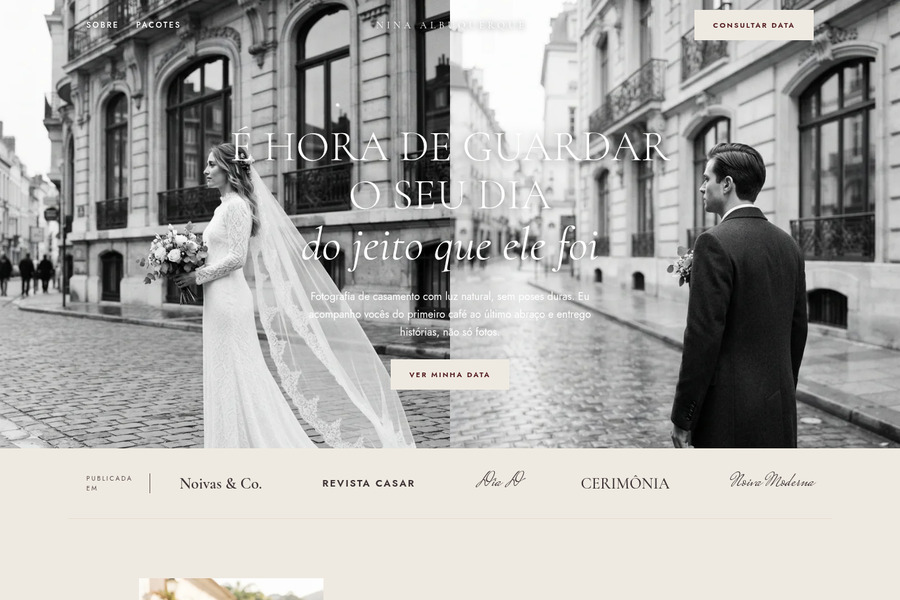
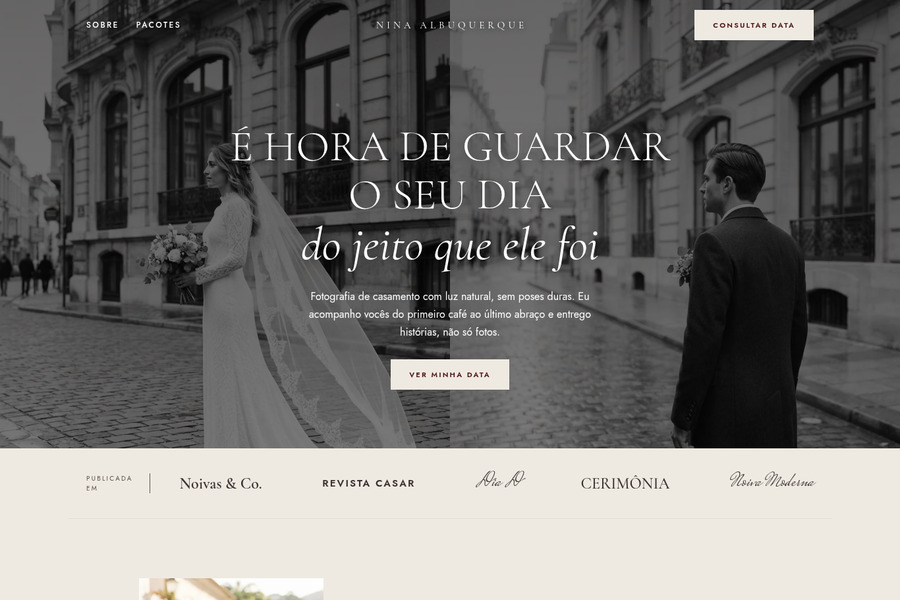
fix(vitrine): overlay escuro no hero do Nina

diff --git a/src/lib/standalone-html/nina-albuquerque.html b/src/lib/standalone-html/nina-albuquerque.html
@@ -14,7 +14,7 @@ Error generating stack: `+u.message+`
         .ft2 .sc{font-family:'Mrs Saint Delafield',cursive}
         .ft2 .hero{position:relative;background:#1a1a1a;color:#fff;min-height:680px;overflow:hidden}
         .ft2 .hero .ph{position:absolute;top:0;bottom:0;width:50%}.ft2 .hero .ph.l{left:0}.ft2 .hero .ph.r{right:0}
-        .ft2 .hero:after{content:"";position:absolute;inset:0;background:linear-gradient(180deg,rgba(10,8,8,.62),rgba(10,8,8,.5))}
+        .ft2 .hero:after{content:"";position:absolute;inset:0;z-index:1;background:linear-gradient(180deg,rgba(10,8,8,.62),rgba(10,8,8,.5))}
         .ft2 .hero>*{position:relative;z-index:2}
         .ft2 .nav{display:grid;grid-template-columns:1fr auto 1fr;align-items:center;height:76px;max-width:1160px;margin:0 auto;padding:0 28px}
         .ft2 .logo{text-shadow:0 1px 10px #000;font-family:'Cormorant Garamond',serif;font-size:15px;letter-spacing:.34em;text-transform:uppercase;font-weight:400;padding-left:.34em;text-align:center}
@@ -78,5 +78,5 @@ Error generating stack: `+u.message+`
           .ft2 .pk{grid-template-columns:1fr}.ft2 .pk button{min-height:260px}
           .ft2 .fm{grid-template-columns:1fr}.ft2 .fm .full{grid-column:span 1}.ft2 .info{grid-template-columns:1fr}
         }
-      `}),(0,E.jsxs)("section",{className:"hero",id:"top",children:[(0,E.jsx)(Tu,{k:1,style:{position:"absolute",top:0,bottom:0,left:0,width:"50%"}}),(0,E.jsx)(Tu,{k:2,style:{position:"absolute",top:0,bottom:0,right:0,width:"50%"}}),(0,E.jsxs)("header",{className:"nav",children:[(0,E.jsxs)("div",{className:"nl",children:[(0,E.jsx)("a",{onClick:()=>yl("sobre"),children:"Sobre"}),(0,E.jsx)("a",{onClick:()=>yl("pacotes"),children:"Pacotes"})]}),(0,E.jsx)("div",{className:"logo",children:H}),(0,E.jsxs)("div",{className:"nr",children:[(0,E.jsx)("a",{className:"btn",onClick:()=>yl("data"),children:"Consultar data"}),(0,E.jsx)("button",{className:"burger",onClick:()=>Q(Y=>!Y),"aria-label":"Menu",children:S?"×":"≡"})]})]}),S&&(0,E.jsxs)("div",{className:"mob",children:[(0,E.jsx)("a",{onClick:()=>yl("sobre"),children:"Sobre"}),(0,E.jsx)("a",{onClick:()=>yl("pacotes"),children:"Pacotes"}),(0,E.jsx)("a",{onClick:()=>yl("data"),children:"Consultar data"})]}),(0,E.jsxs)("h1",{children:["É hora de guardar",(0,E.jsx)("br",{}),"o seu dia ",(0,E.jsx)("em",{children:"do jeito que ele foi"})]}),(0,E.jsx)("p",{className:"s",children:"Fotografia de casamento com luz natural, sem poses duras. Eu acompanho vocês do primeiro café ao último abraço e entrego histórias, não só fotos."}),(0,E.jsx)("div",{className:"ctr",children:(0,E.jsx)("button",{className:"btn",onClick:()=>yl("data"),children:"Ver minha data"})})]}),(0,E.jsxs)("div",{className:"logos",children:[(0,E.jsxs)("small",{children:["Publicada",(0,E.jsx)("br",{}),"em"]}),(0,E.jsx)("div",{children:lm.map(Y=>(0,E.jsx)("span",{className:Y.f==="script"?"sc":"",style:{fontFamily:Y.f==="serif"?"'Cormorant Garamond',serif":Y.f==="sans"?"Jost,sans-serif":void 0,fontWeight:Y.w,letterSpacing:Y.f==="sans"?".14em":0,fontSize:Y.f==="script"?30:Y.f==="sans"?15:24},children:Y.t},Y.t))})]}),(0,E.jsxs)("section",{className:"about",id:"sobre",children:[(0,E.jsxs)("div",{className:"col",children:[(0,E.jsx)(Tu,{k:3,style:{position:"absolute",left:0,top:0,width:280,height:380}}),(0,E.jsx)(Tu,{k:4,style:{position:"absolute",left:230,top:250,width:130,height:170,border:`5px solid ${ie}`,boxShadow:"0 10px 30px rgba(0,0,0,.3)"}})]}),(0,E.jsxs)("div",{children:[(0,E.jsx)("small",{children:"Oi, eu sou a"}),(0,E.jsxs)("div",{className:"sc sig",children:[w," Albuquerque"]}),(0,E.jsx)("p",{children:"Fotografo casamentos há 11 anos, hoje só entre 20 e 25 por temporada, para conseguir estar inteira em cada um."}),(0,E.jsx)("p",{children:"Meu jeito é ficar perto sem aparecer. Quem casa comigo costuma dizer que esqueceu que tinha fotógrafa, e adorou ver o resultado depois."}),(0,E.jsx)("div",{style:{marginTop:22},children:(0,E.jsx)("a",{className:"btn dk",onClick:()=>yl("pacotes"),children:"Conhecer os pacotes"})})]})]}),(0,E.jsxs)("section",{className:"band",children:[(0,E.jsx)("div",{className:"sc note",children:"memórias que ficam"}),(0,E.jsx)(Tu,{k:4,style:{position:"absolute",right:"8%",top:50,width:90,height:116,transform:"rotate(7deg)",border:`3px solid ${St}`}}),(0,E.jsx)(Tu,{k:3,style:{position:"absolute",left:"7%",bottom:40,width:104,height:130,transform:"rotate(-5deg)",border:`3px solid ${St}`}}),(0,E.jsxs)("h2",{children:["Casais que querem ",(0,E.jsx)("br",{}),"viver o dia ",(0,E.jsx)("br",{}),"e ",(0,E.jsx)("em",{style:{textTransform:"none",fontStyle:"italic"},children:"rever tudo depois"})]}),(0,E.jsx)("p",{children:"Sem fila de pose, sem cronograma apertado. Um dia contado com calma, em cor e em preto e branco."})]}),(0,E.jsx)("section",{className:"pk",id:"pacotes",children:Gi.map((Y,Zl)=>(0,E.jsxs)("button",{className:`p${Zl}${_l===Zl?" on":""}`,onClick:()=>{Vl(Zl),yl("data")},children:[(0,E.jsxs)("div",{children:[(0,E.jsx)("h3",{children:Y.t}),(0,E.jsx)("p",{children:Y.d})]}),(0,E.jsx)("span",{className:"pr",children:Y.n})]},Y.t))}),(0,E.jsxs)("section",{className:"ask",id:"data",children:[(0,E.jsxs)("h2",{children:["Vamos ver se eu ",(0,E.jsx)("em",{children:"estou livre"})," na sua data"]}),(0,E.jsxs)("div",{className:"fm",children:[(0,E.jsxs)("div",{className:"full",children:[(0,E.jsx)("label",{children:"Pacote"}),(0,E.jsx)("div",{className:"sel",children:Gi.map((Y,Zl)=>(0,E.jsx)("button",{className:_l===Zl?"on":"",onClick:()=>Vl(Zl),children:Y.t},Y.t))})]}),(0,E.jsxs)("div",{children:[(0,E.jsx)("label",{htmlFor:"ft-d",children:"Data do casamento"}),(0,E.jsx)("input",{id:"ft-d",type:"date",value:Ol,onChange:Y=>zl(Y.target.value)})]}),(0,E.jsxs)("div",{children:[(0,E.jsx)("label",{htmlFor:"ft-l",children:"Cidade ou local"}),(0,E.jsx)("input",{id:"ft-l",value:Il,onChange:Y=>D(Y.target.value),placeholder:"Ex.: Nova Lima"})]})]}),(0,E.jsx)("div",{className:"ctr",style:{marginTop:34},children:(0,E.jsx)("a",{className:"btn dk",href:Pl,target:"_blank",rel:"noreferrer",children:"Perguntar no WhatsApp"})})]}),(0,E.jsxs)("div",{className:"info",children:[(0,E.jsxs)("div",{children:[(0,E.jsx)("b",{children:"Atendo em"}),(0,E.jsxs)("span",{children:[sl," e região",(0,E.jsx)("br",{}),"Destinos pelo Brasil"]})]}),(0,E.jsxs)("div",{children:[(0,E.jsx)("b",{children:"Agenda"}),(0,E.jsxs)("span",{children:["Poucas datas por temporada",(0,E.jsx)("br",{}),"Resposta em até 24 horas"]})]}),(0,E.jsxs)("div",{children:[(0,E.jsx)("b",{children:"Entrega"}),(0,E.jsxs)("span",{children:["Galeria online em 45 dias",(0,E.jsx)("br",{}),"Álbum artesanal opcional"]})]})]}),(0,E.jsxs)("footer",{children:[(0,E.jsx)("div",{className:"logo",style:{textAlign:"center"},children:H}),(0,E.jsxs)("nav",{children:[(0,E.jsx)("a",{onClick:()=>yl("sobre"),children:"Sobre"}),(0,E.jsx)("a",{onClick:()=>yl("pacotes"),children:"Pacotes"}),(0,E.jsx)("a",{onClick:()=>yl("data"),children:"Consultar data"})]}),(0,E.jsxs)("span",{children:["© ",new Date().getFullYear()," ",H,". Todos os direitos reservados."]})]}),Sl&&(0,E.jsx)("a",{className:"wa",href:fl,target:"_blank",rel:"noreferrer","aria-label":"WhatsApp",children:(0,E.jsx)("svg",{width:"30",height:"30",viewBox:"0 0 32 32",fill:"#fff",children:(0,E.jsx)("path",{d:"M16 3a13 13 0 0 0-11 19.800L3 29l6.400-1.900A13 13 0 1 0 16 3zm0 2.400a10.600 10.600 0 1 1-5.400 19.700l-.4-.2-3.800 1.100 1.100-3.700-.3-.4A10.600 10.600 0 0 1 16 5.400zm-4 5.300c-.3 0-.7.100-1 .5-.4.400-1.300 1.300-1.300 3.100s1.300 3.600 1.500 3.900c.2.200 2.600 4.100 6.400 5.600 3.200 1.200 3.800 1 4.500.9.700-.1 2.200-.9 2.500-1.800.3-.9.300-1.600.2-1.800-.1-.2-.3-.3-.7-.5l-2.300-1.100c-.3-.1-.5-.2-.8.200l-1 1.200c-.2.300-.4.300-.8.100-.4-.2-1.500-.6-2.900-1.800-1.100-1-1.800-2.200-2-2.500-.2-.4 0-.6.200-.8l.6-.7c.2-.2.200-.4.400-.6.100-.3.100-.5 0-.7l-1-2.400c-.3-.6-.5-.5-.8-.5z"})})})]})}var um=window.__SEMSITE__;(0,Pd.createRoot)(document.getElementById("root")).render((0,E.jsx)(am,{client:um.client}))})();
+      `}),(0,E.jsxs)("section",{className:"hero",id:"top",children:[(0,E.jsx)(Tu,{k:1,style:{zIndex:0,position:"absolute",top:0,bottom:0,left:0,width:"50%"}}),(0,E.jsx)(Tu,{k:2,style:{zIndex:0,position:"absolute",top:0,bottom:0,right:0,width:"50%"}}),(0,E.jsxs)("header",{className:"nav",children:[(0,E.jsxs)("div",{className:"nl",children:[(0,E.jsx)("a",{onClick:()=>yl("sobre"),children:"Sobre"}),(0,E.jsx)("a",{onClick:()=>yl("pacotes"),children:"Pacotes"})]}),(0,E.jsx)("div",{className:"logo",children:H}),(0,E.jsxs)("div",{className:"nr",children:[(0,E.jsx)("a",{className:"btn",onClick:()=>yl("data"),children:"Consultar data"}),(0,E.jsx)("button",{className:"burger",onClick:()=>Q(Y=>!Y),"aria-label":"Menu",children:S?"×":"≡"})]})]}),S&&(0,E.jsxs)("div",{className:"mob",children:[(0,E.jsx)("a",{onClick:()=>yl("sobre"),children:"Sobre"}),(0,E.jsx)("a",{onClick:()=>yl("pacotes"),children:"Pacotes"}),(0,E.jsx)("a",{onClick:()=>yl("data"),children:"Consultar data"})]}),(0,E.jsxs)("h1",{children:["É hora de guardar",(0,E.jsx)("br",{}),"o seu dia ",(0,E.jsx)("em",{children:"do jeito que ele foi"})]}),(0,E.jsx)("p",{className:"s",children:"Fotografia de casamento com luz natural, sem poses duras. Eu acompanho vocês do primeiro café ao último abraço e entrego histórias, não só fotos."}),(0,E.jsx)("div",{className:"ctr",children:(0,E.jsx)("button",{className:"btn",onClick:()=>yl("data"),children:"Ver minha data"})})]}),(0,E.jsxs)("div",{className:"logos",children:[(0,E.jsxs)("small",{children:["Publicada",(0,E.jsx)("br",{}),"em"]}),(0,E.jsx)("div",{children:lm.map(Y=>(0,E.jsx)("span",{className:Y.f==="script"?"sc":"",style:{fontFamily:Y.f==="serif"?"'Cormorant Garamond',serif":Y.f==="sans"?"Jost,sans-serif":void 0,fontWeight:Y.w,letterSpacing:Y.f==="sans"?".14em":0,fontSize:Y.f==="script"?30:Y.f==="sans"?15:24},children:Y.t},Y.t))})]}),(0,E.jsxs)("section",{className:"about",id:"sobre",children:[(0,E.jsxs)("div",{className:"col",children:[(0,E.jsx)(Tu,{k:3,style:{position:"absolute",left:0,top:0,width:280,height:380}}),(0,E.jsx)(Tu,{k:4,style:{position:"absolute",left:230,top:250,width:130,height:170,border:`5px solid ${ie}`,boxShadow:"0 10px 30px rgba(0,0,0,.3)"}})]}),(0,E.jsxs)("div",{children:[(0,E.jsx)("small",{children:"Oi, eu sou a"}),(0,E.jsxs)("div",{className:"sc sig",children:[w," Albuquerque"]}),(0,E.jsx)("p",{children:"Fotografo casamentos há 11 anos, hoje só entre 20 e 25 por temporada, para conseguir estar inteira em cada um."}),(0,E.jsx)("p",{children:"Meu jeito é ficar perto sem aparecer. Quem casa comigo costuma dizer que esqueceu que tinha fotógrafa, e adorou ver o resultado depois."}),(0,E.jsx)("div",{style:{marginTop:22},children:(0,E.jsx)("a",{className:"btn dk",onClick:()=>yl("pacotes"),children:"Conhecer os pacotes"})})]})]}),(0,E.jsxs)("section",{className:"band",children:[(0,E.jsx)("div",{className:"sc note",children:"memórias que ficam"}),(0,E.jsx)(Tu,{k:4,style:{position:"absolute",right:"8%",top:50,width:90,height:116,transform:"rotate(7deg)",border:`3px solid ${St}`}}),(0,E.jsx)(Tu,{k:3,style:{position:"absolute",left:"7%",bottom:40,width:104,height:130,transform:"rotate(-5deg)",border:`3px solid ${St}`}}),(0,E.jsxs)("h2",{children:["Casais que querem ",(0,E.jsx)("br",{}),"viver o dia ",(0,E.jsx)("br",{}),"e ",(0,E.jsx)("em",{style:{textTransform:"none",fontStyle:"italic"},children:"rever tudo depois"})]}),(0,E.jsx)("p",{children:"Sem fila de pose, sem cronograma apertado. Um dia contado com calma, em cor e em preto e branco."})]}),(0,E.jsx)("section",{className:"pk",id:"pacotes",children:Gi.map((Y,Zl)=>(0,E.jsxs)("button",{className:`p${Zl}${_l===Zl?" on":""}`,onClick:()=>{Vl(Zl),yl("data")},children:[(0,E.jsxs)("div",{children:[(0,E.jsx)("h3",{children:Y.t}),(0,E.jsx)("p",{children:Y.d})]}),(0,E.jsx)("span",{className:"pr",children:Y.n})]},Y.t))}),(0,E.jsxs)("section",{className:"ask",id:"data",children:[(0,E.jsxs)("h2",{children:["Vamos ver se eu ",(0,E.jsx)("em",{children:"estou livre"})," na sua data"]}),(0,E.jsxs)("div",{className:"fm",children:[(0,E.jsxs)("div",{className:"full",children:[(0,E.jsx)("label",{children:"Pacote"}),(0,E.jsx)("div",{className:"sel",children:Gi.map((Y,Zl)=>(0,E.jsx)("button",{className:_l===Zl?"on":"",onClick:()=>Vl(Zl),children:Y.t},Y.t))})]}),(0,E.jsxs)("div",{children:[(0,E.jsx)("label",{htmlFor:"ft-d",children:"Data do casamento"}),(0,E.jsx)("input",{id:"ft-d",type:"date",value:Ol,onChange:Y=>zl(Y.target.value)})]}),(0,E.jsxs)("div",{children:[(0,E.jsx)("label",{htmlFor:"ft-l",children:"Cidade ou local"}),(0,E.jsx)("input",{id:"ft-l",value:Il,onChange:Y=>D(Y.target.value),placeholder:"Ex.: Nova Lima"})]})]}),(0,E.jsx)("div",{className:"ctr",style:{marginTop:34},children:(0,E.jsx)("a",{className:"btn dk",href:Pl,target:"_blank",rel:"noreferrer",children:"Perguntar no WhatsApp"})})]}),(0,E.jsxs)("div",{className:"info",children:[(0,E.jsxs)("div",{children:[(0,E.jsx)("b",{children:"Atendo em"}),(0,E.jsxs)("span",{children:[sl," e região",(0,E.jsx)("br",{}),"Destinos pelo Brasil"]})]}),(0,E.jsxs)("div",{children:[(0,E.jsx)("b",{children:"Agenda"}),(0,E.jsxs)("span",{children:["Poucas datas por temporada",(0,E.jsx)("br",{}),"Resposta em até 24 horas"]})]}),(0,E.jsxs)("div",{children:[(0,E.jsx)("b",{children:"Entrega"}),(0,E.jsxs)("span",{children:["Galeria online em 45 dias",(0,E.jsx)("br",{}),"Álbum artesanal opcional"]})]})]}),(0,E.jsxs)("footer",{children:[(0,E.jsx)("div",{className:"logo",style:{textAlign:"center"},children:H}),(0,E.jsxs)("nav",{children:[(0,E.jsx)("a",{onClick:()=>yl("sobre"),children:"Sobre"}),(0,E.jsx)("a",{onClick:()=>yl("pacotes"),children:"Pacotes"}),(0,E.jsx)("a",{onClick:()=>yl("data"),children:"Consultar data"})]}),(0,E.jsxs)("span",{children:["© ",new Date().getFullYear()," ",H,". Todos os direitos reservados."]})]}),Sl&&(0,E.jsx)("a",{className:"wa",href:fl,target:"_blank",rel:"noreferrer","aria-label":"WhatsApp",children:(0,E.jsx)("svg",{width:"30",height:"30",viewBox:"0 0 32 32",fill:"#fff",children:(0,E.jsx)("path",{d:"M16 3a13 13 0 0 0-11 19.800L3 29l6.400-1.900A13 13 0 1 0 16 3zm0 2.400a10.600 10.600 0 1 1-5.400 19.700l-.4-.2-3.800 1.100 1.100-3.700-.3-.4A10.600 10.600 0 0 1 16 5.400zm-4 5.300c-.3 0-.7.100-1 .5-.4.400-1.300 1.300-1.300 3.100s1.300 3.600 1.500 3.900c.2.200 2.600 4.100 6.400 5.600 3.200 1.200 3.800 1 4.500.9.700-.1 2.200-.9 2.500-1.800.3-.9.300-1.600.2-1.800-.1-.2-.3-.3-.7-.5l-2.300-1.100c-.3-.1-.5-.2-.8.200l-1 1.200c-.2.300-.4.300-.8.100-.4-.2-1.500-.6-2.900-1.800-1.100-1-1.800-2.200-2-2.500-.2-.4 0-.6.200-.8l.6-.7c.2-.2.200-.4.400-.6.100-.3.100-.5 0-.7l-1-2.400c-.3-.6-.5-.5-.8-.5z"})})})]})}var um=window.__SEMSITE__;(0,Pd.createRoot)(document.getElementById("root")).render((0,E.jsx)(am,{client:um.client}))})();
 </script></body></html>

diff --git a/src/components/models/FotoFold.tsx b/src/components/models/FotoFold.tsx
@@ -95,7 +95,7 @@ export function FotoFold({ client }: { client?: { name?: string; whatsapp?: stri
         .ft2 .sc{font-family:'Mrs Saint Delafield',cursive}
         .ft2 .hero{position:relative;background:#1a1a1a;color:#fff;min-height:680px;overflow:hidden}
         .ft2 .hero .ph{position:absolute;top:0;bottom:0;width:50%}.ft2 .hero .ph.l{left:0}.ft2 .hero .ph.r{right:0}
-        .ft2 .hero:after{content:"";position:absolute;inset:0;background:linear-gradient(180deg,rgba(10,8,8,.62),rgba(10,8,8,.5))}
+        .ft2 .hero:after{content:"";position:absolute;inset:0;z-index:1;background:linear-gradient(180deg,rgba(10,8,8,.62),rgba(10,8,8,.5))}
         .ft2 .hero>*{position:relative;z-index:2}
         .ft2 .nav{display:grid;grid-template-columns:1fr auto 1fr;align-items:center;height:76px;max-width:1160px;margin:0 auto;padding:0 28px}
         .ft2 .logo{text-shadow:0 1px 10px #000;font-family:'Cormorant Garamond',serif;font-size:15px;letter-spacing:.34em;text-transform:uppercase;font-weight:400;padding-left:.34em;text-align:center}
@@ -162,8 +162,8 @@ export function FotoFold({ client }: { client?: { name?: string; whatsapp?: stri
       `}</style>
 
       <section className="hero" id="top">
-        <Frame k={1} style={{ position: "absolute", top: 0, bottom: 0, left: 0, width: "50%" }} />
-        <Frame k={2} style={{ position: "absolute", top: 0, bottom: 0, right: 0, width: "50%" }} />
+        <Frame k={1} style={{ zIndex: 0, position: "absolute", top: 0, bottom: 0, left: 0, width: "50%" }} />
+        <Frame k={2} style={{ zIndex: 0, position: "absolute", top: 0, bottom: 0, right: 0, width: "50%" }} />
         <header className="nav">
           <div className="nl"><a onClick={() => go("sobre")}>Sobre</a><a onClick={() => go("pacotes")}>Pacotes</a></div>
           <div className="logo">{brand}</div>
